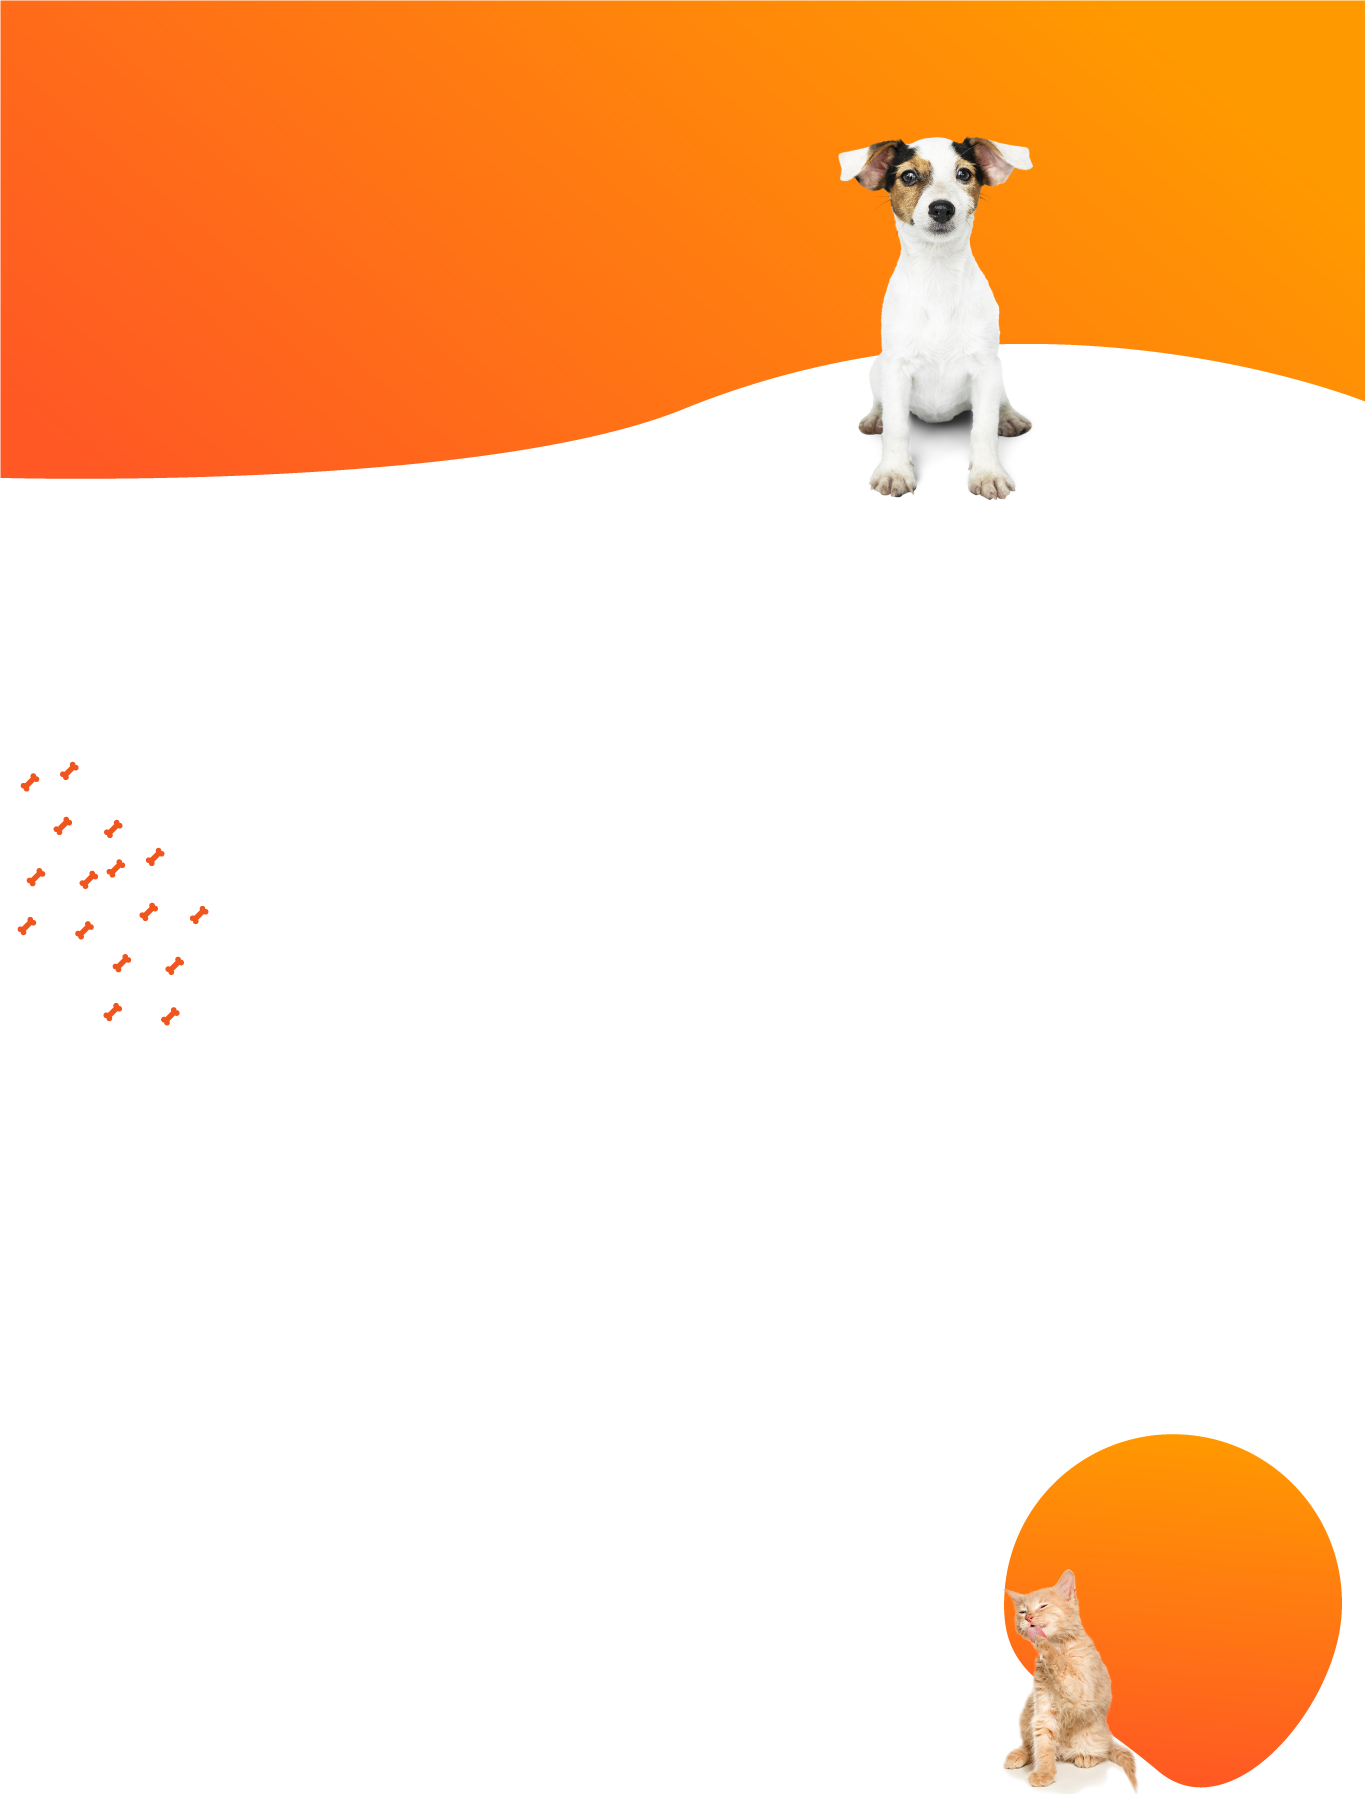
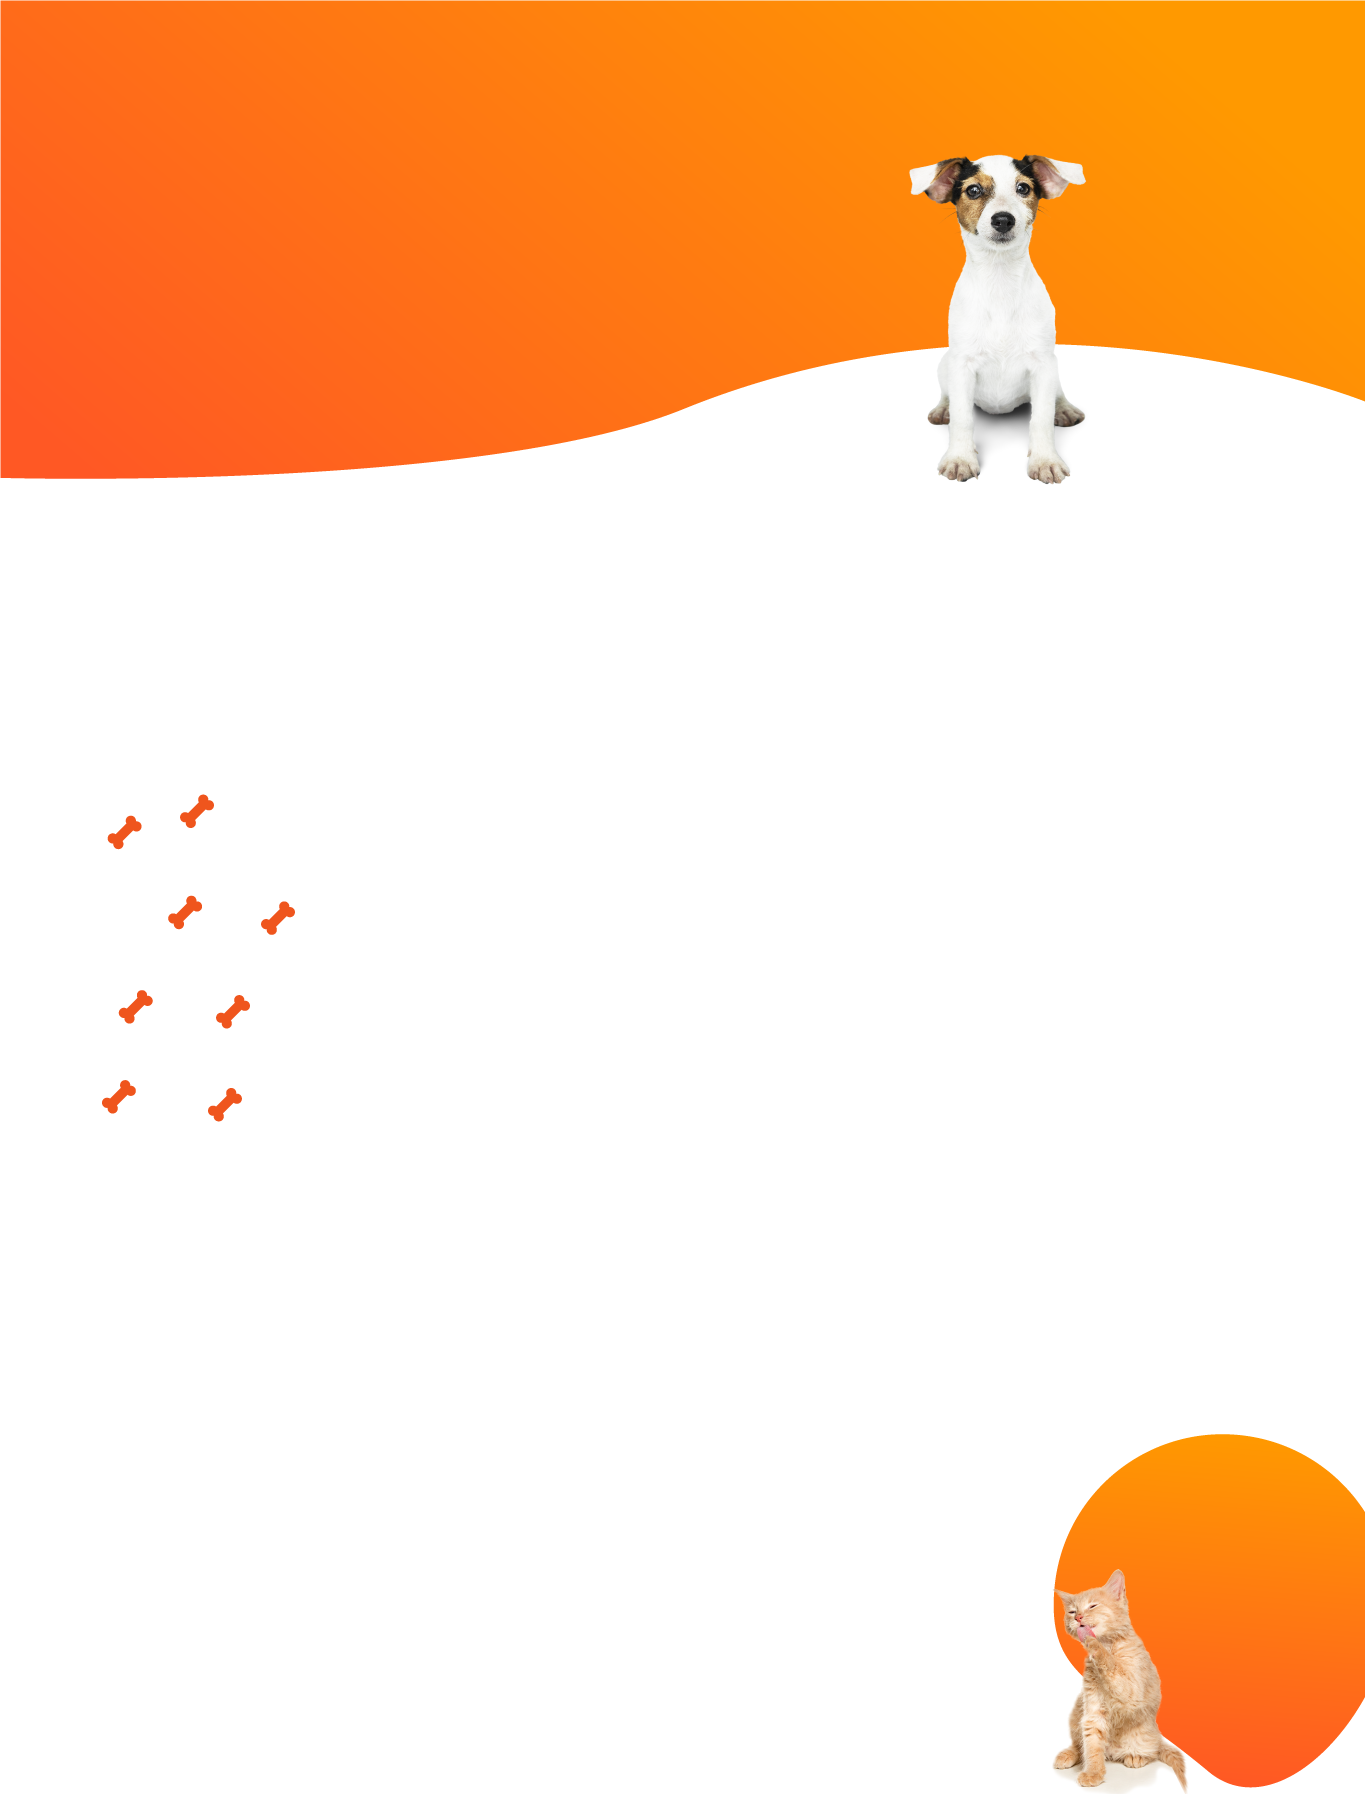
htmlayudar

diff --git a/Layouts/potreroDigital_proyecto_grupo5_ayudar.html b/Layouts/potreroDigital_proyecto_grupo5_ayudar.html
@@ -1,0 +1,132 @@
+<!doctype html>
+<html lang="en">
+  <head>
+    <!-- Required meta tags -->
+    <meta charset="utf-8">
+    <meta name="viewport" content="width=device-width, initial-scale=1, shrink-to-fit=no">
+
+    <!-- Bootstrap CSS -->
+
+    <link rel="stylesheet" href="https://cdn.jsdelivr.net/npm/bootstrap@4.5.3/dist/css/bootstrap.min.css" integrity="sha384-TX8t27EcRE3e/ihU7zmQxVncDAy5uIKz4rEkgIXeMed4M0jlfIDPvg6uqKI2xXr2" crossorigin="anonymous">
+    <link  rel="icon"   href="..\Logo\Favicon.png" type="image/png" />
+    <link href = "https://fonts.googleapis.com/css2? family = Montserrat: ital, wght @ 0,100; 0,200; 0,300; 0,400; 0,500; 0,600; 0,700; 0,800; 0,900; 1,100; 1,200; 1,300; 1,400 ; 1,500; 1,600; 1,700; 1,800; 1,900 & display = swap "rel =" stylesheet ">
+    <link rel="stylesheet" href="..\CSS\potreroDigital_proyecto_grupo5_ayudar.css">
+    <link rel="stylesheet" href="..\CSS\potreroDigital_proyecto_grupo5_lacasa.css">
+    <title>Lacasa</title>
+  </head>
+  <body>
+    <div class="container-fluid">
+      <header class="header row">
+        <div class="logo col-md-3 col-sm-2">
+        <a href="..\Layouts\potreroDigital_proyeto_grupo5_index.html"><img src="..\Logo\Logo La casa remap.png" alt="LaCasa"></a>
+        </div>
+        <nav class="menú col-md-9 col-sm-10">
+          <ul class="nav justify-content-end">
+            <li class="nav-item">
+              <a class="nav-link" href="#">ADOPTAR</a>
+            </li>
+            <li class="nav-item">
+              <a class="nav-link" href="#">AYUDAR</a>
+            </li>
+            <li class="nav-item">
+              <a class="nav-link" href="#">PARTICIPAR</a>
+            </li>
+            <li class="nav-item">
+              <a class="nav-link" href="#">DONAR</a>
+            </li>
+          </ul>
+        </nav>
+      </header>
+      <main class="main row">
+      <section>
+      <div class="separacion row">
+
+      </div>
+      <div class="row justify-content-center">
+        <div class="denuncia col-4 ">
+        <h3>DENUNCIÁ MALTRATO</h3>
+        <p>Se entiende como maltrato, que el animal esté atado con una cadena corta, alambre o soga y que le impida moverse mucho. Que no tenga reparo, que esté flaco, desnutrido.
+Denunciar el maltrato animal es anónimo, sólo se debe presentar a la comisaría más cercana o fiscalía, bajo la ley N° 14.346. ¡Ayudalos, no te quedes callado!</p>
+        </div>
+        <div class="imagen col-6">
+        <img src="..\Imagenes fotos para slide\perro descansando.jpg" alt="perroDescansando">
+        </div>
+      </div>
+      <div class="patas row justify-content-center">
+        <img src="..\Imagenes fotos para slide\patas.png" alt="patas">
+      </div>
+      <div class="row justify-content-center">
+
+        <div class="imagen col-6 ">
+          <img src="..\Imagenes fotos para slide\gatos cachorros.jpg" alt="gatosCachorros">
+        </div>
+        <div class="castra col-4">
+          <h3>CASTRÁ</h3>
+          <p>Existe un gran número de gatos y perros que son abandonados por sus dueños cada año, la gran mayoría de ellos sin  esterilizar. Lo que ocaciona reprodución sin límites, jaurías, hambre, enfermedades, accidentes y  maltratados.
+Para cambiar esta realidad, nosotros proponemos castrar los animales que llegan a los distintos grupos proteccionistas.
+¡Necesitamos tu ayuda!</p>
+        </div>
+
+      </div>
+      <div class="separacion row">
+
+      </div>
+      <div class="row justify-content-center">
+        <div class="separacion2 col-1">
+
+        </div>
+        <div class="col-6">
+          <h1>Apadriná castraciones</h1>
+          <hr>
+          <h4 id="deposito">Depósito o transferencia bancaria</h4>
+          <h4>Banco Santander Rio</h4>
+          <h4>Asociación Civil La Casa</h4>
+          <h4>CBU: 0560080803422205054600</h4>
+          <h4>CUIT: 30-89633378-3</h4>
+        </div>
+        <div class="col-1">
+          <img src="..\Imagenes fotos para slide\iconoProteger2.png" alt="iconoProteger">
+        </div>
+
+        <div class="separacion row">
+
+        </div>
+
+
+      </div>
+      </section>
+
+      </main>
+
+
+    <footer>
+      <div class="footer row justify-content-center">
+        <div class="separacion2 col-md-1">
+
+        </div>
+        <div class="isologo col-md-2 col-sm-6">
+        <img src="..\Logo\isologo.png" alt="isologo"></a>
+        </div>
+        <div class="Dirección col-md-4 col-sm-6">
+        <h6 id="direccion">Loteo Montilla, Rawson, San Juan.
+      </h6>
+       <h6 id="direccion">Teléfonos (264) 424 3536 / 3537</h6>
+        </div>
+        <div class="redes sociales col-md-3 col-sm-12">
+          <a href="https://www.facebook.com"target="_blank"><img src="..\Imagenes fotos para slide\facebook.png" alt="facebook"></a>
+          <a href="https://www.instagram.com"target="_blank"><img src="..\Imagenes fotos para slide\instagram.png" alt="instagram"></a>
+          <a href="https://www.youtube.com"target="_blank"><img src="..\Imagenes fotos para slide\youtube.png" alt="youtube"></a>
+          <a href="https://twitter.com/"target="_blank"><img src="..\Imagenes fotos para slide\twitter.png" alt="twitter"></a>
+        </div>
+      </div>
+
+
+    </footer>
+    </div>
+
+    <script src="https://code.jquery.com/jquery-3.5.1.slim.min.js" integrity="sha384-DfXdz2htPH0lsSSs5nCTpuj/zy4C+OGpamoFVy38MVBnE+IbbVYUew+OrCXaRkfj" crossorigin="anonymous"></script>
+    <script src="https://cdn.jsdelivr.net/npm/popper.js@1.16.1/dist/umd/popper.min.js" integrity="sha384-9/reFTGAW83EW2RDu2S0VKaIzap3H66lZH81PoYlFhbGU+6BZp6G7niu735Sk7lN" crossorigin="anonymous"></script>
+    <script src="https://cdn.jsdelivr.net/npm/bootstrap@4.5.3/dist/js/bootstrap.min.js" integrity="sha384-w1Q4orYjBQndcko6MimVbzY0tgp4pWB4lZ7lr30WKz0vr/aWKhXdBNmNb5D92v7s" crossorigin="anonymous"></script>
+
+  </body>
+</html>

diff --git a/Layouts/potreroDigital_proyecto_grupo5_index.html b/Layouts/potreroDigital_proyecto_grupo5_index.html
@@ -1,15 +1,18 @@
 <!doctype html>
 <html lang="en">
   <head>
-    <link  rel="icon"   href="..\Logo\Favicon.png" type="image/png" />
+
     <!-- Required meta tags -->
     <meta charset="utf-8">
     <meta name="viewport" content="width=device-width, initial-scale=1, shrink-to-fit=no">
-    <link href = "https://fonts.googleapis.com/css2? family = Montserrat: ital, wght @ 0,100; 0,200; 0,300; 0,400; 0,500; 0,600; 0,700; 0,800; 0,900; 1,100; 1,200; 1,300; 1,400 ; 1,500; 1,600; 1,700; 1,800; 1,900 & display = swap "rel =" stylesheet ">
+
 
     <!-- Bootstrap CSS -->
     <link rel="stylesheet" href="https://cdn.jsdelivr.net/npm/bootstrap@4.5.3/dist/css/bootstrap.min.css" integrity="sha384-TX8t27EcRE3e/ihU7zmQxVncDAy5uIKz4rEkgIXeMed4M0jlfIDPvg6uqKI2xXr2" crossorigin="anonymous">
     <link rel="stylesheet" href="..\CSS\potreroDigital_proyecto_grupo5_index.css">
+    <link rel="stylesheet" href="..\CSS\potreroDigital_proyecto_grupo5_lacasa.css">
+    <link href = "https://fonts.googleapis.com/css2? family = Montserrat: ital, wght @ 0,100; 0,200; 0,300; 0,400; 0,500; 0,600; 0,700; 0,800; 0,900; 1,100; 1,200; 1,300; 1,400 ; 1,500; 1,600; 1,700; 1,800; 1,900 & display = swap "rel =" stylesheet ">
+    <link  rel="icon"   href="..\Logo\Favicon.png" type="image/png" />
     <title>Lacasa</title>
   </head>
   <body>
@@ -35,6 +38,7 @@
           </ul>
         </nav>
 
+
       </header>
       <main class="main row">
       <section>
@@ -45,14 +49,14 @@
         <div class="separacion2 col-1">
 
         </div>
-        <div class="redes col-md-1 col-sm-12 d-flex flex-column align-items-center">
+        <div class="redes col-md-1 d-flex flex-column align-items-center">
         <a href="https://www.facebook.com"target="_blank"><img src="..\Imagenes fotos para slide\facebook.png" alt="facebook"></a>
         <a href="https://www.instagram.com"target="_blank"><img src="..\Imagenes fotos para slide\instagram.png" alt="instagram"></a>
         <a href="https://www.youtube.com"target="_blank"><img src="..\Imagenes fotos para slide\youtube.png" alt="youtube"></a>
         <a href="https://twitter.com/"target="_blank"><img src="..\Imagenes fotos para slide\twitter.png" alt="twitter"></a>
         </div>
 
-        <div class="presentacion col-lg-4 col-md-5 col-sm-12">
+        <div class="presentacion col-lg-4 col-md-5 col-sm-7">
         <h1 id="tituloPresentacion">¡Encontrá a un amigo fiel!</h1>
         <p id="parrafoPresentacion">Somos una comunidad de adopción de mascotas en línea que ayudamos a encontrar a tu compañero ideal.</p>
         </div>
@@ -166,7 +170,7 @@
         </div>
       </main>
       <footer>
-        <div class="footer row">
+        <div class="footer row justify-content-center">
           <div class="separacion2 col-md-1">
 
           </div>

diff --git a/CSS/potreroDigital_proyecto_grupo5_index.css b/CSS/potreroDigital_proyecto_grupo5_index.css
@@ -1,5 +1,11 @@
-*{
-  font-family: 'Montserrat', sans-serif;
+
+
+@media screen and (min-width:768px){
+  body{
+    background:url("../Imagenes fotos para slide/background_naranja2.png") no-repeat center;
+    background-position: right top;
+
+  }
 
 }
 
@@ -9,10 +15,7 @@ body{
 
 }
 
-p{
-  font-size: 20px;
-  font-weight: normal;
-}
+
 
 #parrafoPresentacion{
   color: white;
@@ -24,19 +27,8 @@ p{
   color: white;
 }
 
-.redes{
-  width: 10px;
-}
-.separacion{
-  height: 20vh;
-  width: 100%;
-}
-.separacion4{
-  height: 140px;
-}
-.separacion5{
-  height: 25px;
-}
+
+
 .Seccion3{
   text-align: center;
 
@@ -46,48 +38,15 @@ p{
   padding-left: 110px;
   padding-right: 110px;
 }
-#direccion{
-  color: white;
-}
+
 .formulario{
   padding-left: 110px;
   padding-right: 110px;
 }
 
-h3{
-  font-weight: 500;
-  }
-h5{
-  font-weight: 700;
-  color: rgb(255, 88, 36);
-}
-h6 {
-  font-weight: 500;
-}
 
-.footer{
-   height: 100px;
-   background-color: black;
-   padding-top: 20px;
- }
+
+
 hr{
   border-color: rgb(239, 85, 29);
-}
-
-header{
-  background: linear-gradient(to right, #ff5824, #ff9900);
-  opacity: 0.9;
-  height: 10vh;
-  width: 100%;
-  position: fixed;
-  box-shadow: 2px 1px 5px #541c0e;
-  z-index: 1;
-  padding-top: 5px;
-  padding-left: 110px;
-  padding-right: 110px;
-  }
-
-.nav-link {
-  color: rgb(255, 255, 255);
-  font-weight: bold;
 }

diff --git a/CSS/potreroDigital_proyecto_grupo5_lacasa.css b/CSS/potreroDigital_proyecto_grupo5_lacasa.css
@@ -1,0 +1,57 @@
+*{
+  font-family: 'Montserrat', sans-serif;
+
+}
+#direccion{
+  color: white;
+}
+p{
+  font-size: 20px;
+  font-weight: normal;
+}
+
+.separacion{
+  height: 20vh;
+  width: 100%;
+}
+.separacion4{
+  height: 140px;
+}
+.separacion5{
+  height: 25px;
+}
+
+h3{
+  font-weight: 500;
+  }
+h5{
+  font-weight: 700;
+  color: rgb(255, 88, 36);
+}
+h6 {
+  font-weight: 500;
+}
+
+.footer{
+   height: 100px;
+   background-color: black;
+   padding-top: 20px;
+ }
+
+ header{
+   background: linear-gradient(to right, #ff5824, #ff9900);
+   opacity: 0.9;
+   height: 10vh;
+   width: 100%;
+   position: fixed;
+   box-shadow: 2px 1px 5px #541c0e;
+   z-index: 1;
+   padding-top: 5px;
+   padding-left: 110px;
+   padding-right: 110px;
+   }
+
+ .nav-link {
+   color: rgb(255, 255, 255);
+   font-weight: bold;
+ }

diff --git a/CSS/potreroDigital_proyecto_grupo5_ayudar.css b/CSS/potreroDigital_proyecto_grupo5_ayudar.css
@@ -1,0 +1,14 @@
+.patas{
+  padding: 20px 20px;
+}
+h4{
+  font-weight: 500;
+}
+ #deposito{
+   font-weight: bold;
+ }
+
+ h1{
+   font-weight: 500;
+   color: rgb(255, 88, 36);
+ }
